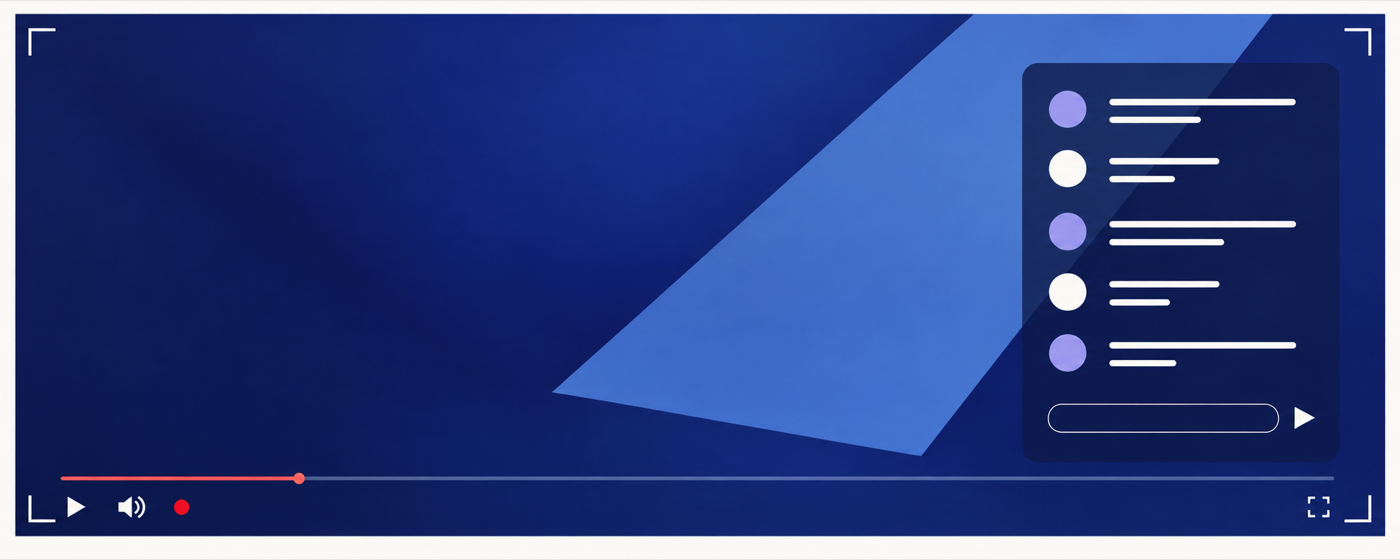
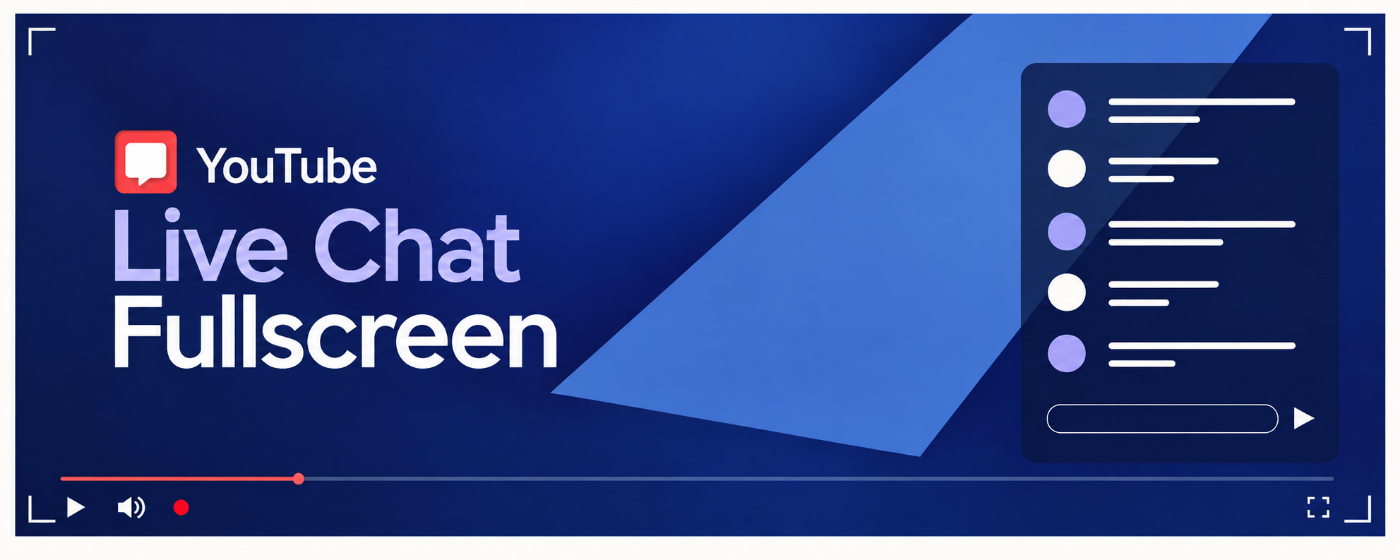
docs: refine store artwork with a single product title

diff --git a/docs/store-assets/chrome-web-store/source/introduction.html b/docs/store-assets/chrome-web-store/source/introduction.html
@@ -5,24 +5,15 @@
   <meta name="viewport" content="width=device-width,initial-scale=1">
   <title>YouTube Live Chat Fullscreen — universal introduction</title>
   <style>
-    @font-face {font-family:Inter;src:url('./fonts/inter-500.woff2') format('woff2');font-weight:500;font-style:normal;font-display:block}
     *{box-sizing:border-box}
-    html,body{margin:0;background:#f5f2eb;font-family:Inter,Arial,sans-serif}
+    html,body{margin:0;background:#f5f2eb}
     #artwork{position:relative;width:1280px;height:800px;overflow:hidden;background:#f5f2eb}
-    .brand{position:absolute;left:72px;top:38px;display:flex;align-items:center;gap:14px;color:#232d52;font-size:20px;font-weight:500;letter-spacing:-.45px;z-index:2}
-    .brand img{width:40px;height:40px;display:block}
-    .illustration{position:absolute;left:80px;top:86px;width:1120px;height:auto;display:block}
-    .title{position:absolute;left:178px;top:236px;margin:0;color:#fff;font-weight:500;font-size:86px;line-height:1.13;letter-spacing:-4.5px;z-index:1}
-    .title span{display:block}
-    .title .chat{color:#c4c4ff}
-    .youtube{display:block;margin-bottom:15px;font-size:26px;letter-spacing:-.6px;line-height:1.2;color:#fbfbff}
+    .illustration{display:block;width:1280px;height:800px;object-fit:contain}
   </style>
 </head>
 <body>
   <main id="artwork" aria-label="Fullscreen video with a floating live chat panel; illustrated introduction">
-    <div class="brand"><img src="../../../../public/icon/128.png" alt=""><span>YouTube Live Chat Fullscreen</span></div>
-    <img class="illustration" src="./indigo-original.png" alt="Illustration of fullscreen video, floating chat, message input and send button">
-    <h1 class="title"><span class="youtube">YouTube</span><span>Fullscreen.</span><span class="chat">Live Chat.</span></h1>
+    <img class="illustration" src="./compact-titled-original.png" alt="YouTube Live Chat Fullscreen: fullscreen video with floating chat, message input and send button">
   </main>
 </body>
 </html>

diff --git a/docs/store-assets/chrome-web-store/README.md b/docs/store-assets/chrome-web-store/README.md
@@ -1,6 +1,6 @@
 # Chrome Web Store assets
 
-The user selected these six images on 2026-10-18 (JST). Their bytes are unchanged from the approved files. [manifest.json](manifest.json) records each output, its SHA-256, its previous location, and the retained sources. This cleanup did not upload images, submit a review, or publish the store listing.
+The user selected this six-image set on 2026-10-18 (JST). On 2026-10-19, the introduction and both promotional tiles were revised at the user's request: each product-name word appears once in a single title block, and the duplicate brand header was removed. These three revised exports are prepared for review; the three real-stream screenshots retain their approved bytes. [manifest.json](manifest.json) records the output hashes, revision history, and retained sources. No store upload, review submission, or publication was performed.
 
 ## Selected images
 
@@ -11,7 +11,7 @@ Upload the four screenshots in filename order.
 3. [Transparent chat](screenshots/03-transparent-chat.png): CohhCarnage, fully transparent messages-only layout, 1280 × 800.
 4. [Custom style](screenshots/04-custom-style.png): DrLupo, navy chat background and Inter font, 1280 × 800.
 
-The promotional images are [small-promo.png](promotional/small-promo.png), 440 × 280, and [marquee.png](promotional/marquee.png), 1400 × 560. Both use the selected indigo illustration.
+The promotional images are [small-promo.png](promotional/small-promo.png), 440 × 280, and [marquee.png](promotional/marquee.png), 1400 × 560. Both use the revised indigo illustration with a single “YouTube / Live Chat / Fullscreen” title block. All six uploads are opaque 24-bit RGB PNGs. Review the small tile at 440 × 280 and 220 × 140 to check text and chat readability.
 
 Each real-stream screenshot displays its complete 1920 × 1080 source at 1280 × 720 below an 80 px heading. README pages and the user guide embed the privacy-processed 1920 × 1080 sources directly to avoid the extra downscaling in the store exports. The introduction and promotional images are illustrations. The real examples use the extension's actual chat UI.
 
@@ -27,7 +27,7 @@ Viewer names, avatars, donor information, and mentions are blurred in the prepar
 
 ## Sources and previews
 
-The selected [indigo original](source/indigo-original.png) and its [generation prompts](source/indigo-prompt.json) support the introduction and small tile. The [marquee original](source/marquee-original.png) and [prompt](source/marquee-prompt.md) retain the wide composition. [introduction.html](source/introduction.html) uses the extension icon and bundled Inter font under its [SIL Open Font License](source/fonts/LICENSE).
+The [revised compact artwork](source/compact-titled-original.png) supports the introduction and small tile; the [revised wide artwork](source/wide-titled-original.png) supports the marquee. Their [built-in imagegen prompts](source/promo-titles-20261019.json) record the single-title requirement and input references. [introduction.html](source/introduction.html) fits the compact artwork into the 1280 × 800 screenshot without adding duplicate text. The original [indigo artwork](source/indigo-original.png), [prompts](source/indigo-prompt.json), [wide artwork](source/marquee-original.png), and [wide prompt](source/marquee-prompt.md) retain the pre-revision provenance. The real-stream screenshot headings use the bundled Inter font under its [SIL Open Font License](source/fonts/LICENSE).
 
 From the repository root, use Node.js 24 and the pinned Yarn.
 
@@ -36,7 +36,7 @@ yarn store:assets:render --check
 yarn store:assets:render
 ```
 
-The first command checks selected output and source hashes, dimensions, and PNG format. The second renders comparison previews in a temporary directory and reports whether they match the selected bytes. It preserves the approved files. A preview can differ when the rendering tool differs from the original export, as with the marquee's historical `sips` downsampling.
+The first command checks output and source hashes, dimensions, and 24-bit RGB PNG format. The second renders comparison previews in a temporary directory and reports whether they match the saved bytes; it preserves the saved exports. Browser-version differences can affect rendered bytes. Rendering artwork does not test extension behavior or verify the live store listing.
 
 The reusable [transparent settings example](source/settings/transparent-live.json) supports the [browser verification guide](../../maintainers/verification-browser.md). The three selected capture settings are kept beside it.
 

diff --git a/docs/store-listing/asset-work-list.md b/docs/store-listing/asset-work-list.md
@@ -19,6 +19,6 @@ The [copy locale index](../store-assets/chrome-web-store/source/listing-copy-loc
 
 ## Selected assets
 
-The [asset guide](../store-assets/chrome-web-store/README.md) lists the four screenshots and two promotional images confirmed by the user on 2026-10-18 (JST). Its manifest records their hashes and source attribution. README examples use the same privacy-protected screenshot files.
+The [asset guide](../store-assets/chrome-web-store/README.md) lists the four screenshots and two promotional images selected by the user on 2026-10-18 (JST). The introduction and promotional tiles were revised for review on 2026-10-19 at the user's request to remove repeated product wording. Its manifest records current hashes, revision history, and source attribution. README examples use the same privacy-protected screenshot files.
 
 Older concepts, captures, comparison galleries, and unselected exports have been removed. Keep only selected designs and the source files needed to maintain them. The selection does not establish a store upload or publication; check the dashboard and public listing separately.
